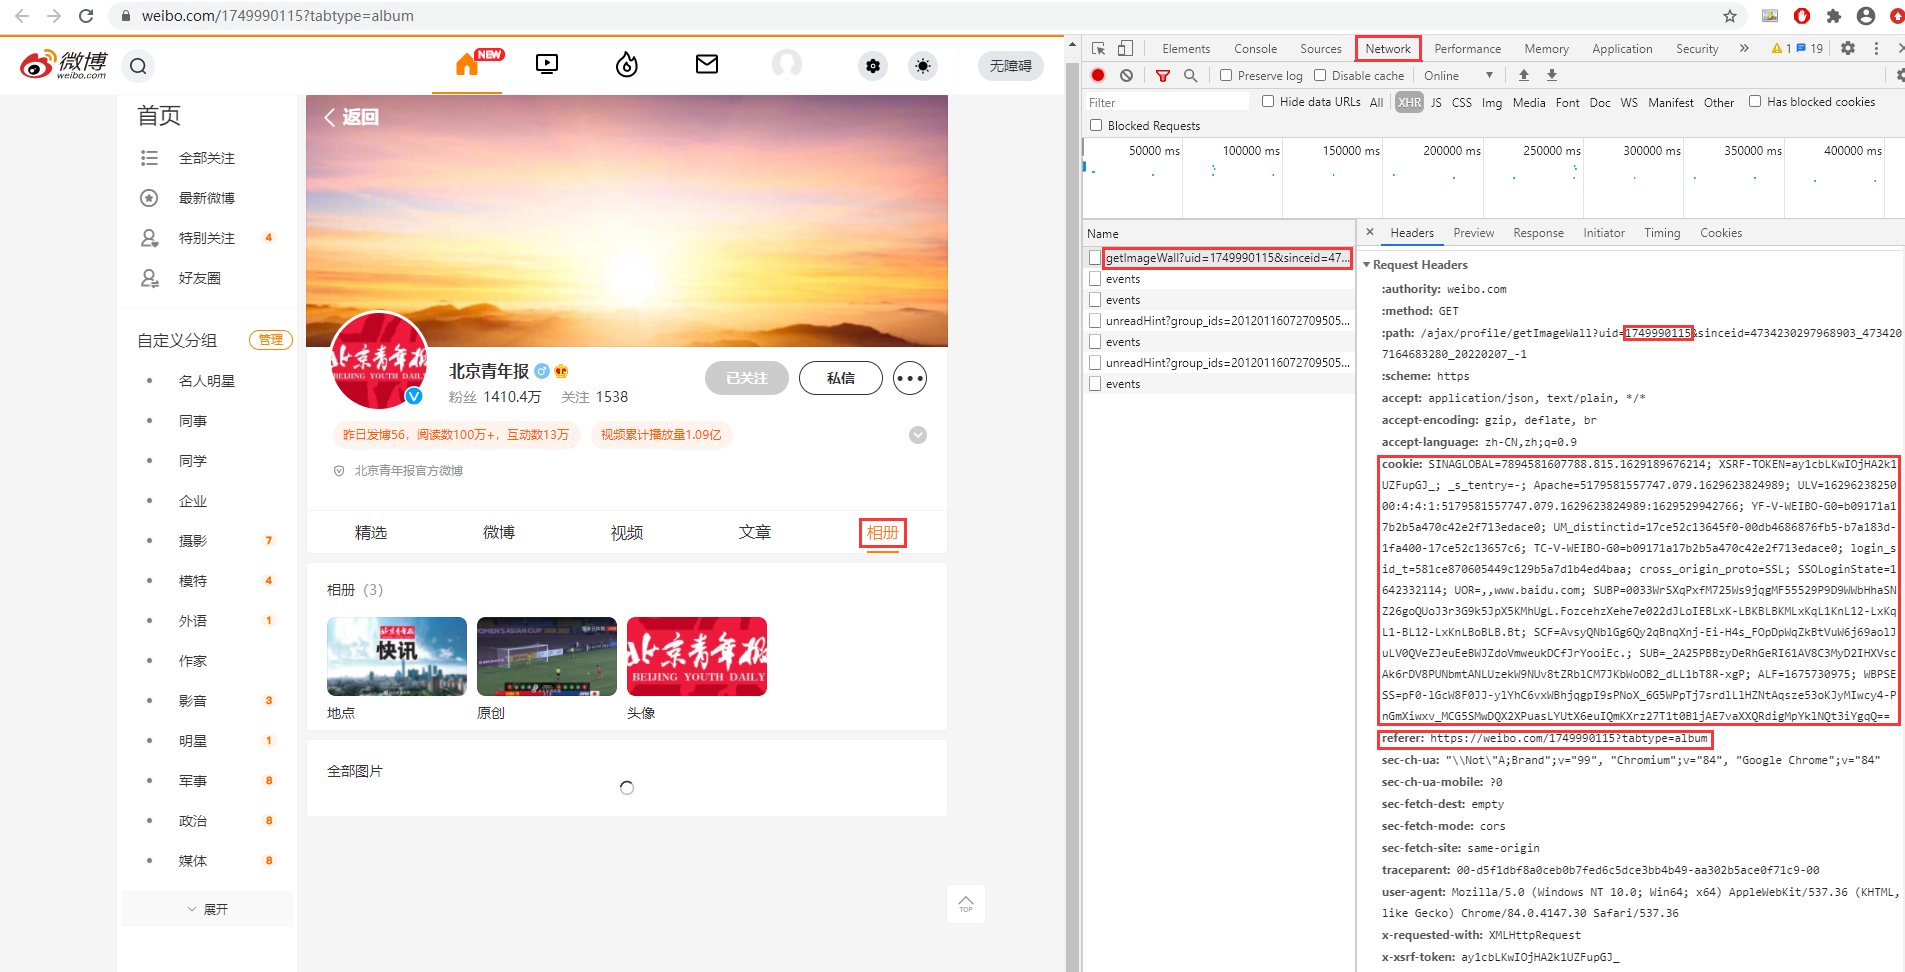
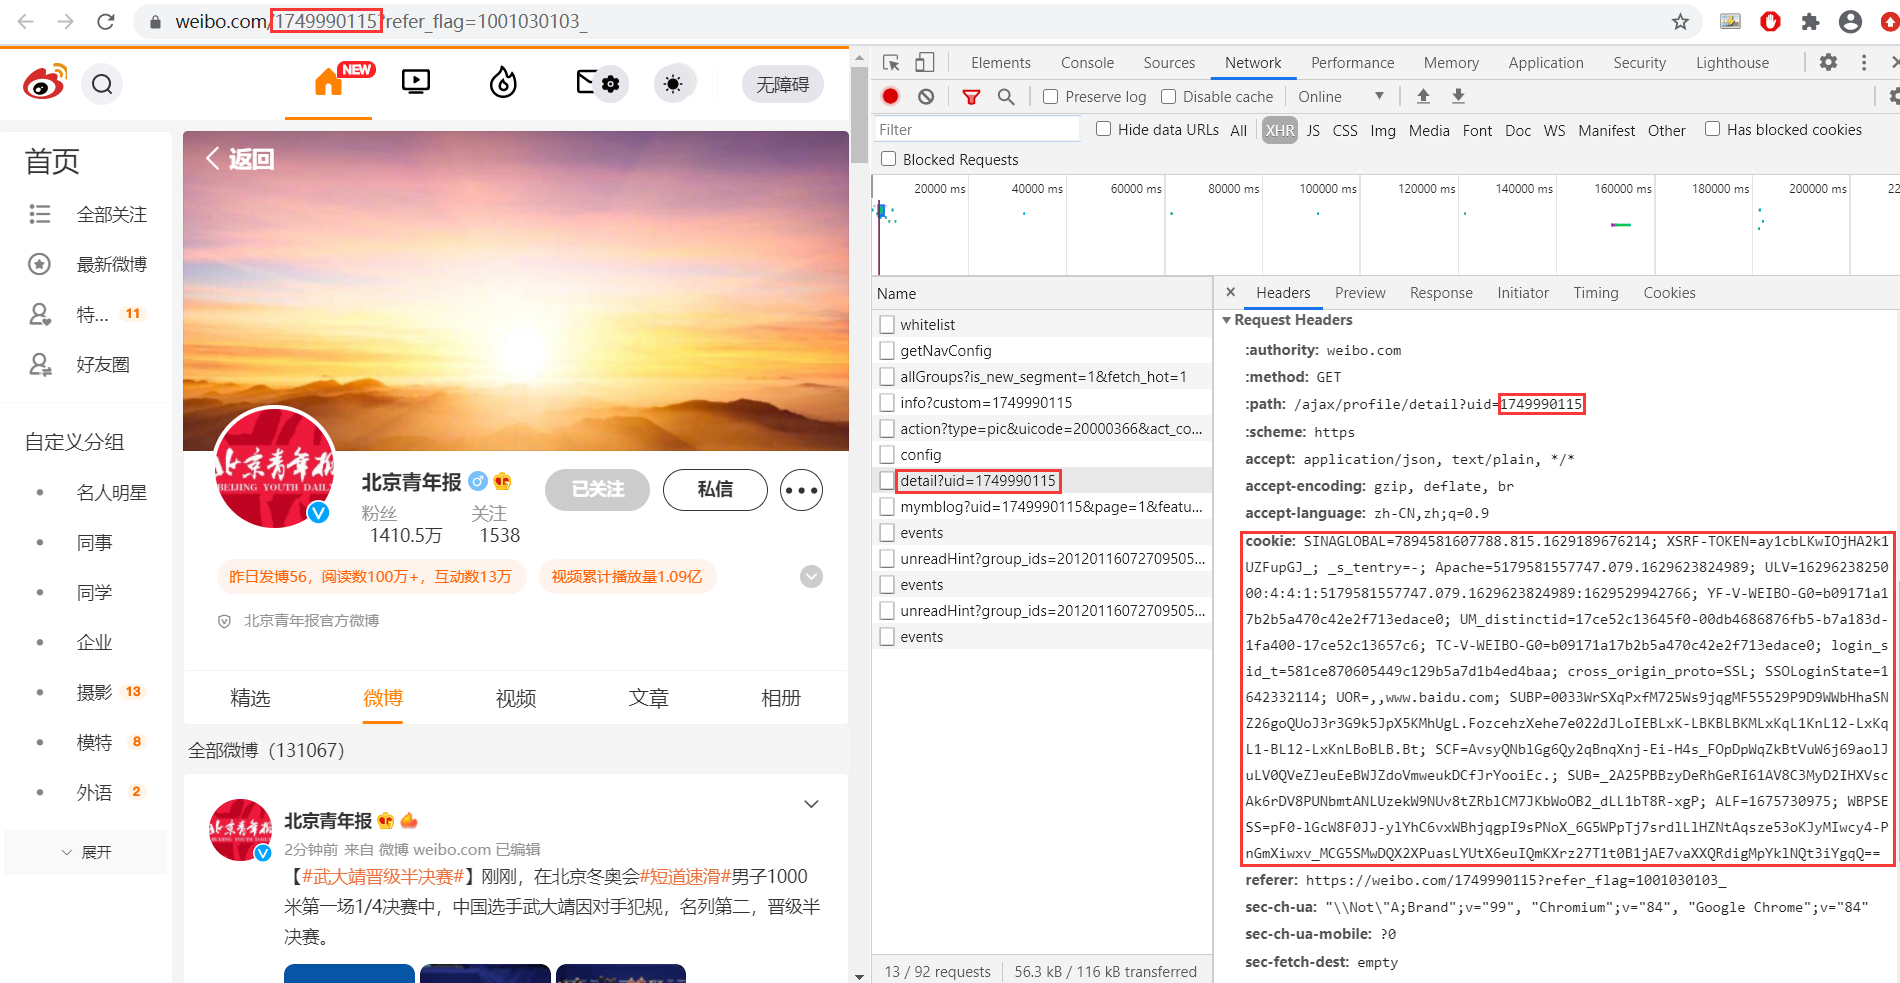
add some function

diff --git a/爬取微博图片.py b/爬取微博图片.py
@@ -11,21 +11,21 @@ def loadUserInfo():
             userName=line.strip()[9:]
         if line.startswith('uid='):
             uid=line.strip()[4:]
-        if line.startswith('referer='):
-            referer=line.strip()[8:]
+        # if line.startswith('referer='):
+        #     referer=line.strip()[8:]
         if line.startswith('cookie='):
             cookie=line.strip()[7:]
         if line.startswith('downloadDirRoot='):
             downloadDirRoot=line.strip()[16:]
-    print('userName:',userName,'\nuid:',uid,'\nreferer:',referer,'\ncookie:',cookie,'\ndownloadDirRoot:',downloadDirRoot)
-    return (userName,uid,referer,cookie,downloadDirRoot)
+    print('userName:',userName,'\nuid:',uid,'\ncookie:',cookie,'\ndownloadDirRoot:',downloadDirRoot)
+    return (userName,uid,cookie,downloadDirRoot)
 
-(userName,uid,referer,cookie,downloadDirRoot)=loadUserInfo()
+(userName,uid,cookie,downloadDirRoot)=loadUserInfo()
 downloadDir=downloadDirRoot+'/'+userName
 if not os.path.isdir(downloadDir):
     os.makedirs(downloadDir)
-pidList, since_id=get_district(loadImgInfo(uid,referer,cookie,'0&has_album=true'))
+pidList, since_id=get_district(loadImgInfo(uid,cookie,'0&has_album=true'))
 while since_id!=0:
-    pidList, since_id = get_district(loadImgInfo(uid,referer,cookie,since_id),pidList)
+    pidList, since_id = get_district(loadImgInfo(uid,cookie,since_id),pidList)
 print('Num:',len(pidList))
 downloadImg(pidList, downloadDir)

diff --git a/load_info.py b/load_info.py
@@ -1,7 +1,8 @@
 import requests
 import json
 
-def loadImgInfo(uid,referer,cookie,sinceid):
+def loadImgInfo(uid,cookie,sinceid):
+    referer='https://weibo.com/'+uid+'?tabtype=album'
     url='https://weibo.com/ajax/profile/getImageWall?uid='+uid+'&sinceid='+sinceid
     headers={
         'accept': 'application/json, text/plain, */*',

diff --git a/README.md b/README.md
@@ -2,9 +2,9 @@
 ### 本代码用Python写的，需要电脑预装Python。
 ### 需要被爬取的微博账号开放了相册一栏。
 ## 使用方法：
-### 1.先修改userinfo，用记事本打开，修改userName、uid、referer、cookie、downloadDirRoot。
+### 1.先修改userinfo，用记事本打开，修改userName、uid、cookie、downloadDirRoot。
 #### 注：userName只是为了保存在指定文件夹下，downloadDirRoot为指定根目录，取什么名字与下载无关。
-### 2.进入你要爬取的微博账号，按F12，点击进入相册一栏，点击右侧Network下的Name栏的getImageWall一栏，获取uid、referer、cookie。
+### 2.进入你要爬取的微博账号，按F12，再按F5刷新，点击右侧Network下的Name栏的detail？uid=...一栏，获取uid、cookie。
 ### 3.修改好userinfo文件后，在 爬取微博图片.py 文件的同目录下，空白处按住shift并右击，输入python 爬取微博图片.py（可复制后右击可以粘贴），回车运行即可。
 ### ![获取uid、referer、cookie](img/爬取微博图片.png)
 ### 4.下载完成后会显示失败下载的图片，可以用浏览器手动访问<https://wx3.sinaimg.cn/large/****pid****.jpg> 下载。
